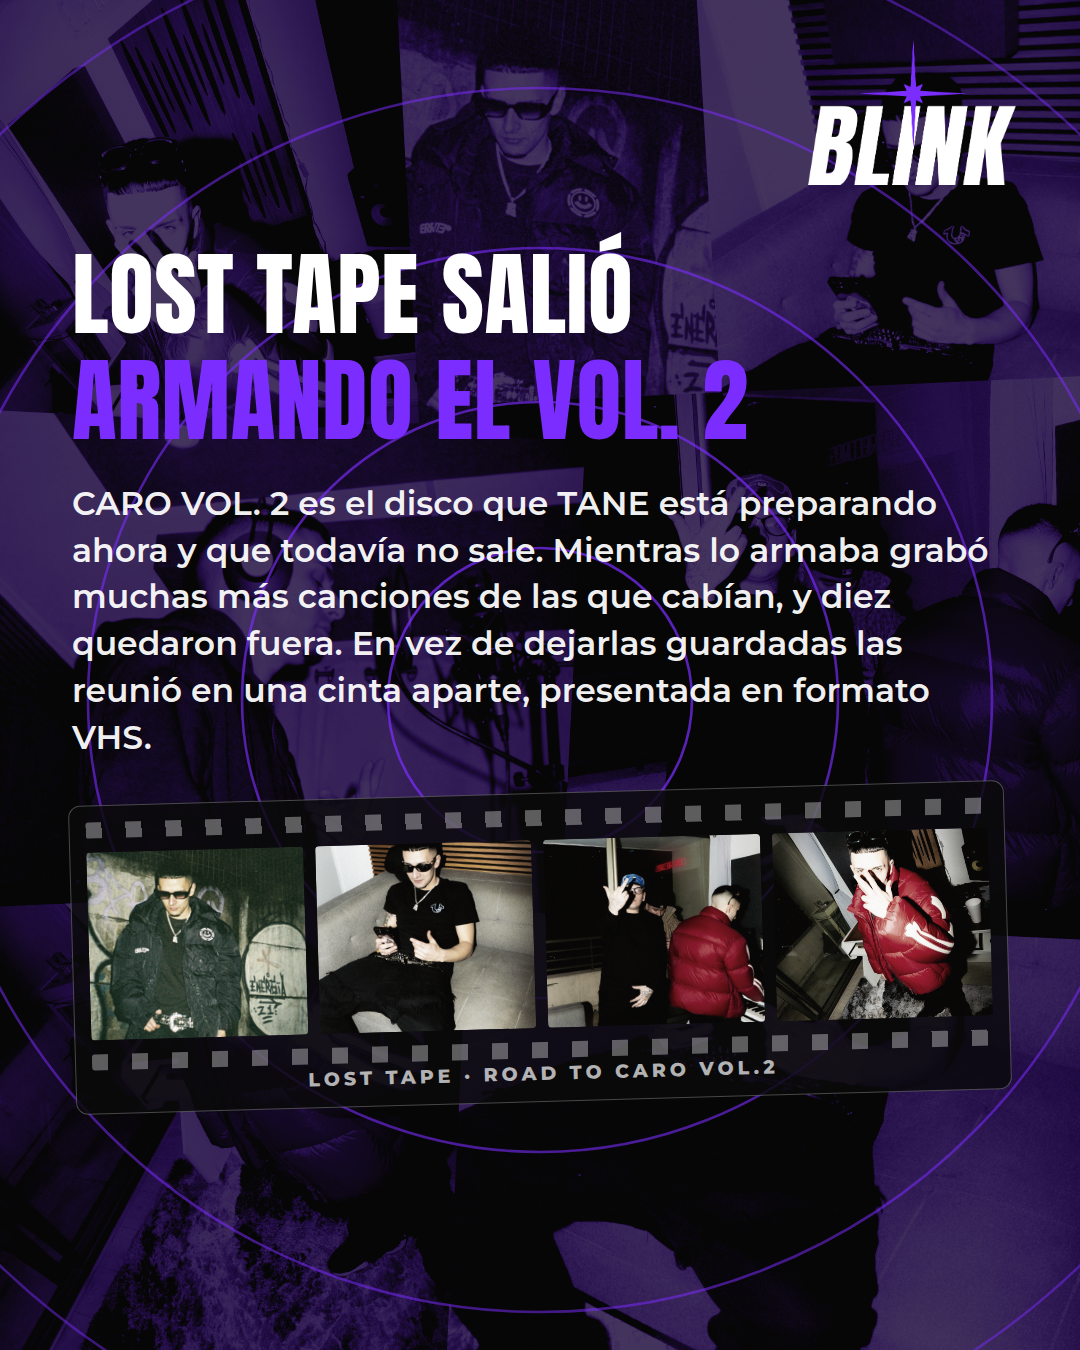
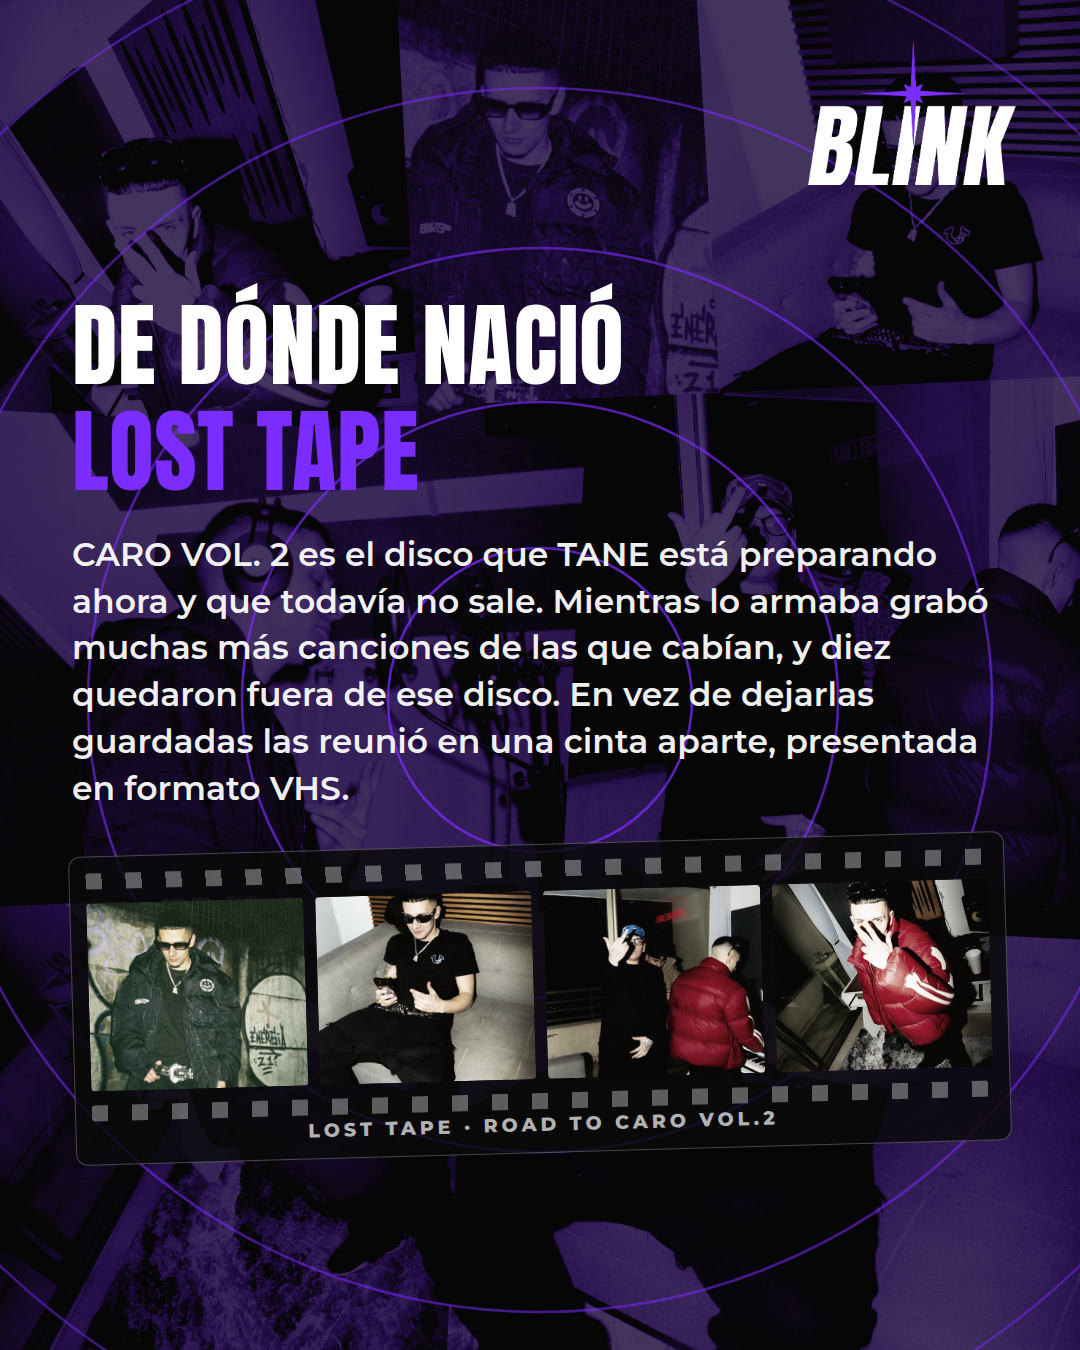
Blink Radar TANE: alinear los textos, aclarar los volúmenes y cambiar dos títulos
Correcciones de Mia:
- Los párrafos de una lámina ahora van todos al mismo ancho; antes uno iba
  angosto al lado de la foto y el otro cruzaba entero, y se veía desordenado.
- No quedaba claro si las diez canciones salían del VOL. 1 o del VOL. 2. Se
  dice explícito en el texto y en los rótulos de las cifras.
- "LOST TAPE salió armando el VOL. 2" adelantaba el dato de la bajada; ahora
  es "De dónde nació LOST TAPE".
- "No son invitados sueltos" fuera: "Los que acompañan a TANE en LOST TAPE".
  Esa lámina lleva además una foto donde sale más de una persona.
- El cuerpo de las interiores ya no se mete bajo el logo.

Claude-Session: https://claude.ai/code/session_01NF4PN4Z1tGA2GQg6PseM5W

Changed region(s): [[0.0611, 0.1556, 0.9472, 0.8711]]

diff --git a/radar-tane.html b/radar-tane.html
@@ -96,6 +96,7 @@
   /* ------------------------------------- el cuerpo de las interiores */
   .cuerpo{
     position:absolute; z-index:5; left:72px; right:72px; top:0; bottom:0;
+    padding:212px 0 110px;
     display:flex; flex-direction:column; justify-content:center; gap:32px;
   }
   .titular{
@@ -119,13 +120,20 @@
   /* --------------------------- las fotos que salen del fondo --------- */
   /* Una foto ladeada al lado del texto, como una copia pegada encima. */
   .conFoto{ display:flex; align-items:flex-start; gap:34px; }
-  .conFoto .texto{ flex:1; }
+  .conFoto .columna{ flex:1; display:flex; flex-direction:column; gap:26px; }
   .conFoto .carta{
     flex:none; width:276px; height:360px; overflow:hidden;
     border:5px solid rgba(255,255,255,.94); border-radius:3px;
     transform:rotate(3.2deg);
   }
   .conFoto .carta img{ width:100%; height:100%; object-fit:cover; object-position:50% 24%; }
+
+  .cartaAncha{
+    width:100%; height:340px; overflow:hidden;
+    border:5px solid rgba(255,255,255,.94); border-radius:3px;
+    transform:rotate(-1.4deg);
+  }
+  .cartaAncha img{ width:100%; height:100%; object-fit:cover; object-position:50% 40%; }
 
   /* La tira de VHS: la cinta con sus perforaciones y cuatro ventanas. */
   .cinta{
@@ -257,13 +265,15 @@ const LAMINAS = {
     '<div class="cuerpo">' +
       titular("Más de diez años", "en el trap chileno") +
       '<div class="conFoto">' +
-        '<p class="texto">TANE es Tomás Gutiérrez, de Santiago, y lleva más de diez ' +
-        'años haciendo trap: ya estaba dando vueltas cuando la escena chilena recién ' +
-        'se armaba.</p>' +
+        '<div class="columna">' +
+          '<p class="texto">TANE es Tomás Gutiérrez, de Santiago, y lleva más de diez ' +
+          'años haciendo trap: ya estaba dando vueltas cuando la escena chilena ' +
+          'recién se armaba.</p>' +
+          '<p class="texto">Hoy tiene su propio estudio, CARO RÉCORDS, y quiere subir ' +
+          'de nivel, pero con la intención de conectar con más gente.</p>' +
+        '</div>' +
         '<div class="carta"><img src="TANE 2.png" alt=""></div>' +
       '</div>' +
-      '<p class="texto">Hoy tiene su propio estudio, CARO RÉCORDS, y quiere subir de ' +
-      'nivel, pero con la intención de conectar con más gente.</p>' +
     '</div>' },
 
   3: { html:
@@ -281,11 +291,11 @@ const LAMINAS = {
 
   4: { html:
     '<div class="cuerpo">' +
-      titular("LOST TAPE salió", "armando el VOL. 2") +
+      titular("De dónde nació", "LOST TAPE") +
       '<p class="texto">CARO VOL. 2 es el disco que TANE está preparando ahora y que ' +
-      'todavía no sale. Mientras lo armaba grabó muchas más canciones de las que cabían, ' +
-      'y diez quedaron fuera. En vez de dejarlas guardadas las reunió en una cinta ' +
-      'aparte, presentada en formato VHS.</p>' +
+      'todavía no sale. Mientras lo armaba grabó muchas más canciones de las que ' +
+      'cabían, y diez quedaron fuera de ese disco. En vez de dejarlas guardadas las ' +
+      'reunió en una cinta aparte, presentada en formato VHS.</p>' +
       cinta(["TANE 1.png", "TANE 7.JPEG", "TANE 9.JPEG", "TANE 8.JPEG"],
             "Lost Tape · Road to Caro Vol.2") +
     '</div>' },
@@ -297,9 +307,9 @@ const LAMINAS = {
       '</div>' +
       '<div class="cifras">' +
         '<div class="caja"><div class="numero">10</div>' +
-          '<div class="que">canciones en LOST TAPE</div></div>' +
+          '<div class="que">quedaron fuera del VOL. 2</div></div>' +
         '<div class="caja morada"><div class="numero">6</div>' +
-          '<div class="que">canciones en CARO VOL. 1</div></div>' +
+          '<div class="que">tuvo el primer CARO</div></div>' +
       '</div>' +
     '</div>' },
 
@@ -316,13 +326,14 @@ const LAMINAS = {
 
   7: { html:
     '<div class="cuerpo">' +
-      titular("No son invitados", "sueltos") +
-      '<p class="texto">En LOST TAPE cantan Baby Jey, Jamez Manuel, Kuroh, ALBLACK, ' +
-      'Poison Kid, Pablo Diablo y el mexicano Sleezy O. Cinco de ellos ya habían estado ' +
-      'en CARO VOL. 1.</p>' +
-      '<p class="texto">Buena parte del disco se grabó en La Sede, la casa-estudio que ' +
-      'se armó en pandemia y donde TANE vivió con varios de ellos. La producción la ' +
-      'firma él mismo junto a Loose, Killua97 y Discan.</p>' +
+      titular("Los que acompañan", "a TANE en LOST TAPE") +
+      '<p class="texto">Cantan con él Baby Jey, Jamez Manuel, Kuroh, ALBLACK, Poison ' +
+      'Kid, Pablo Diablo y el mexicano Sleezy O. Cinco de ellos ya habían estado en ' +
+      'CARO VOL. 1, y buena parte del disco se grabó en La Sede, la casa-estudio que ' +
+      'se armó en pandemia y donde TANE vivió con varios.</p>' +
+      '<div class="cartaAncha"><img src="TANE 9.JPEG" alt=""></div>' +
+      '<p class="texto">La producción la firma él mismo junto a Loose, Killua97 y ' +
+      'Discan.</p>' +
     '</div>' },
 
   8: { html:"" },

diff --git a/CLAUDE.md b/CLAUDE.md
@@ -103,6 +103,8 @@ entregar: contar los puntos seguidos y los "y" de un mismo párrafo.
 - "te acordái" y el voseo chileno marcado
 - "pibe" — prefiere "chico"
 - "capaz que"
+- "invitados sueltos" — para presentar a los que colaboran en un disco, el
+  modelo que Mia eligió es "Los que acompañan a <artista> en <disco>"
 - **El femenino plural para hablarle al público**: "lo gritamos juntas", "nos vemos
   todas", "amigas". Deja fuera a medio público sin ninguna razón. Blink le habla a
   **una persona**, de tú, sin suponer quién es.
@@ -406,6 +408,16 @@ explicativo, nunca como punteo. Dos consecuencias de forma:
 - **El titular da el contexto antes de la bajada.** "No es un disco, es el
   proyecto" no dice de qué proyecto; "CARO no es un disco, es su serie entera"
   sí. Leído solo, el titular tiene que situar de qué se está hablando.
+- **Pero el titular no adelanta el dato de la bajada.** "LOST TAPE salió armando
+  el VOL. 2" ya contaba lo que venía abajo; "De dónde nació LOST TAPE" plantea
+  la pregunta y deja que el texto la responda.
+- **Todos los textos de una lámina van al mismo ancho.** Mezclar un párrafo
+  angosto —al lado de una foto— con otro que cruza la lámina entera se ve
+  desordenado. La foto va al lado de la columna completa, no de un párrafo.
+- **Si dos cosas se llaman parecido, hay que decir cuál es cuál en cada
+  mención**, incluso en el rótulo de una cifra. Con CARO VOL. 1 y VOL. 2
+  mezclados en dos láminas seguidas no se entendía de cuál salieron las diez
+  canciones.
 - **La portada lleva el nombre del artista en el titular**, no solo en un
   rótulo chico: "TANE ESTÁ DE ESTRENO".
 
